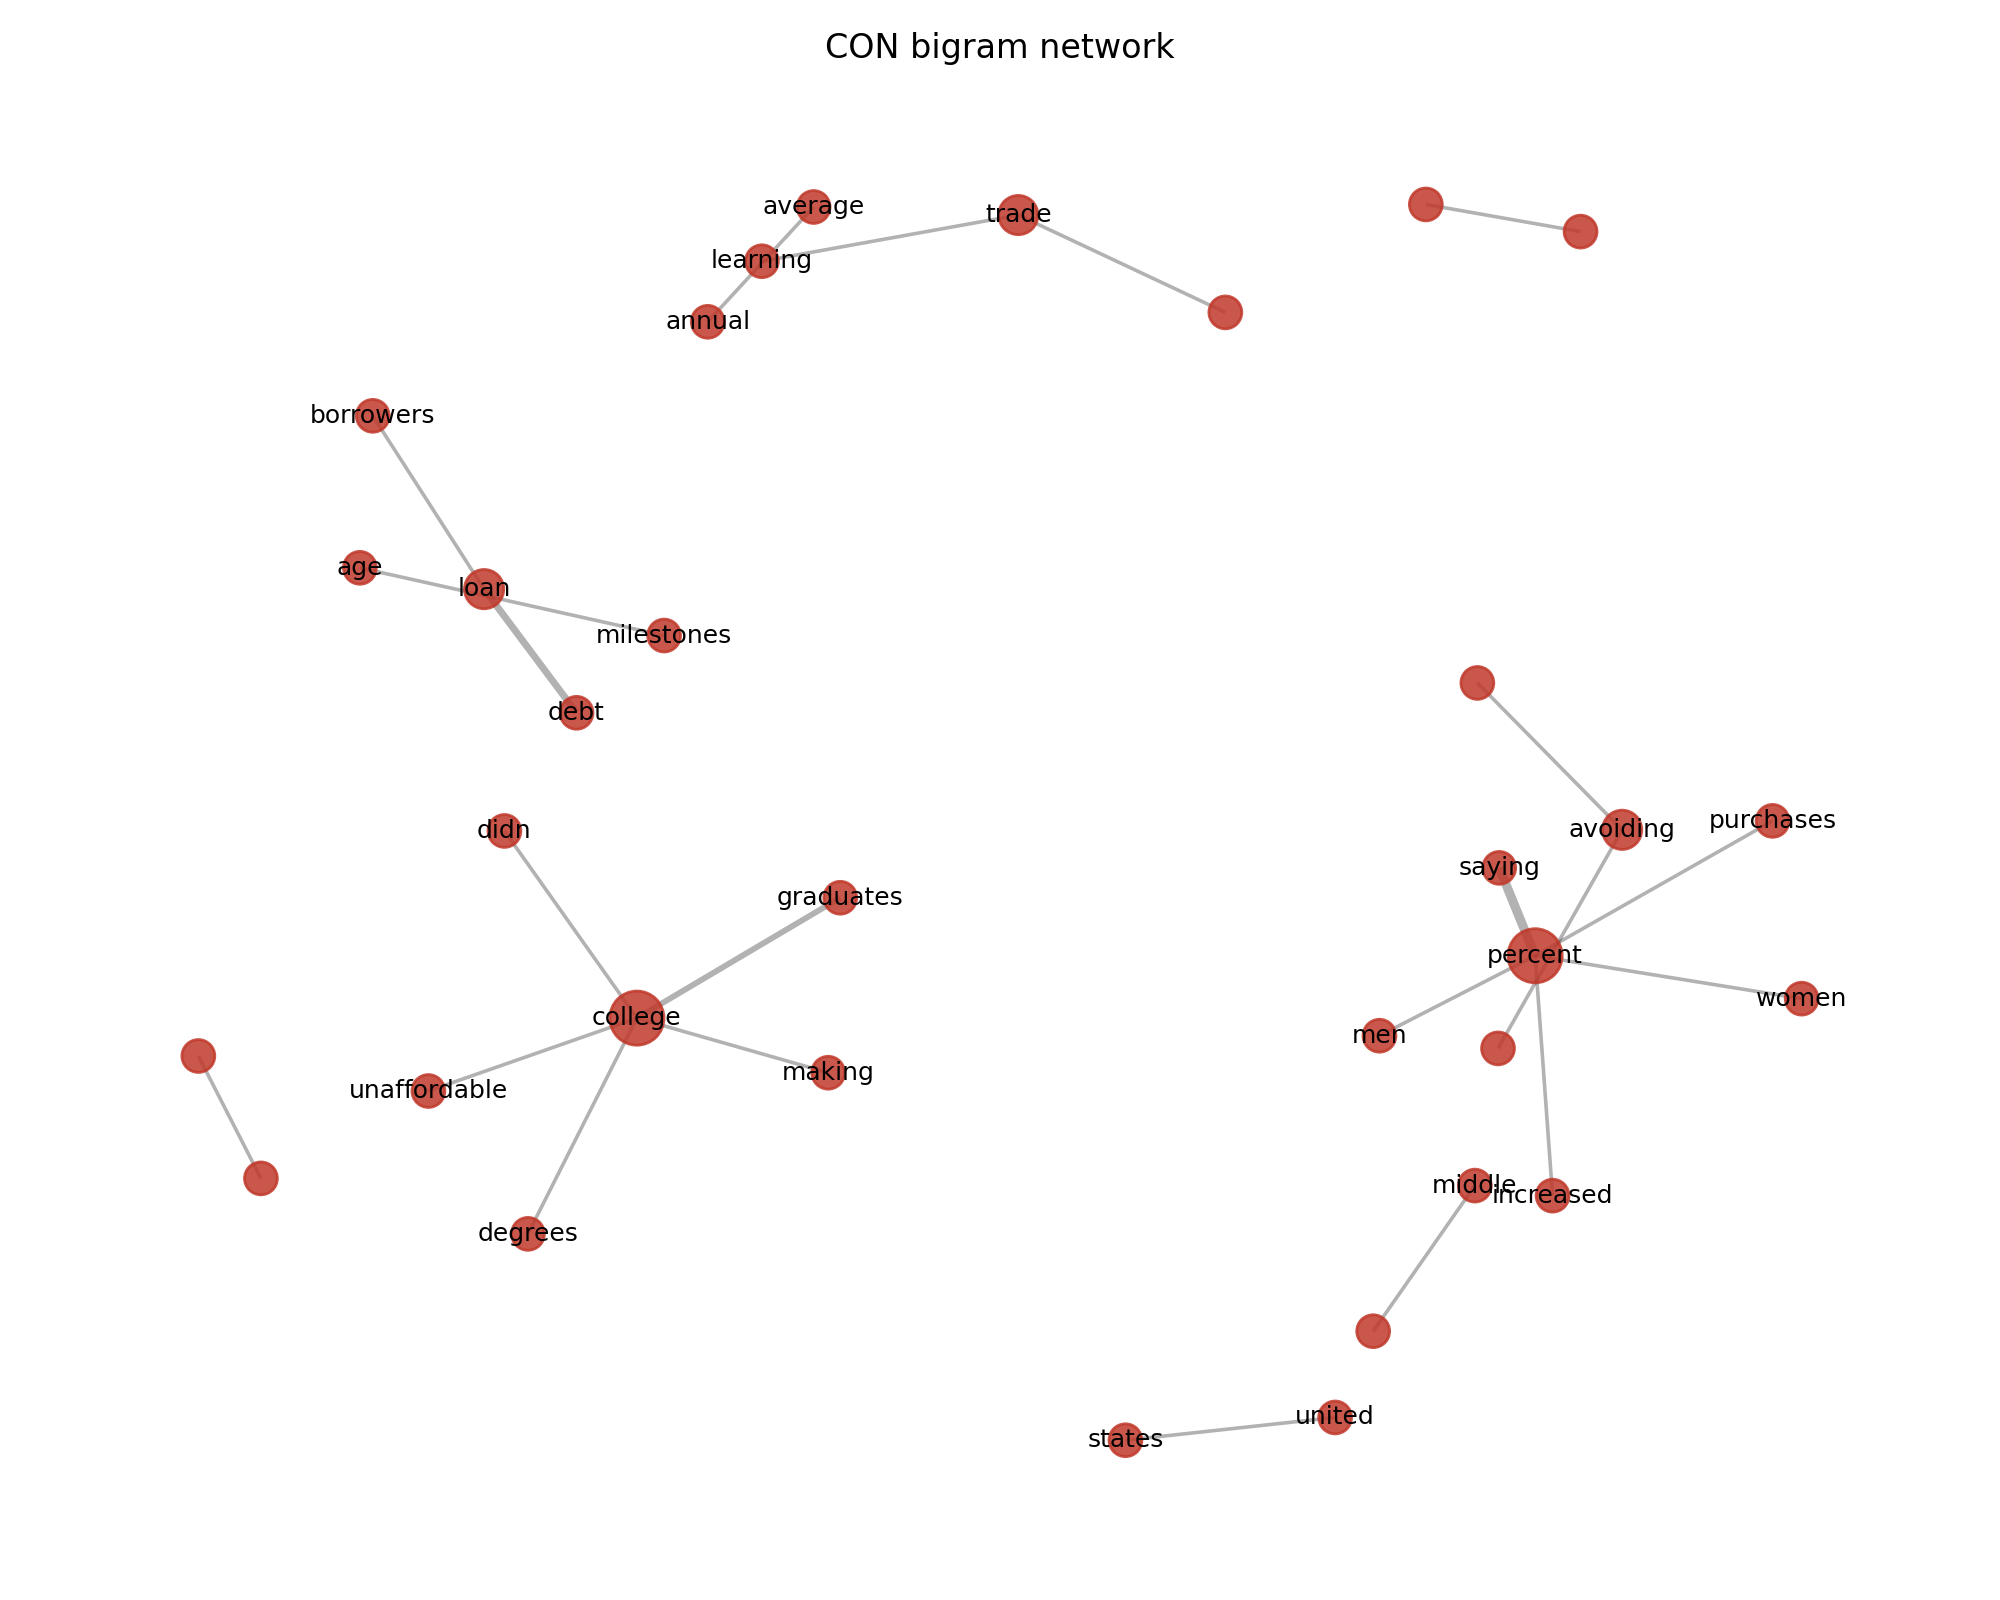
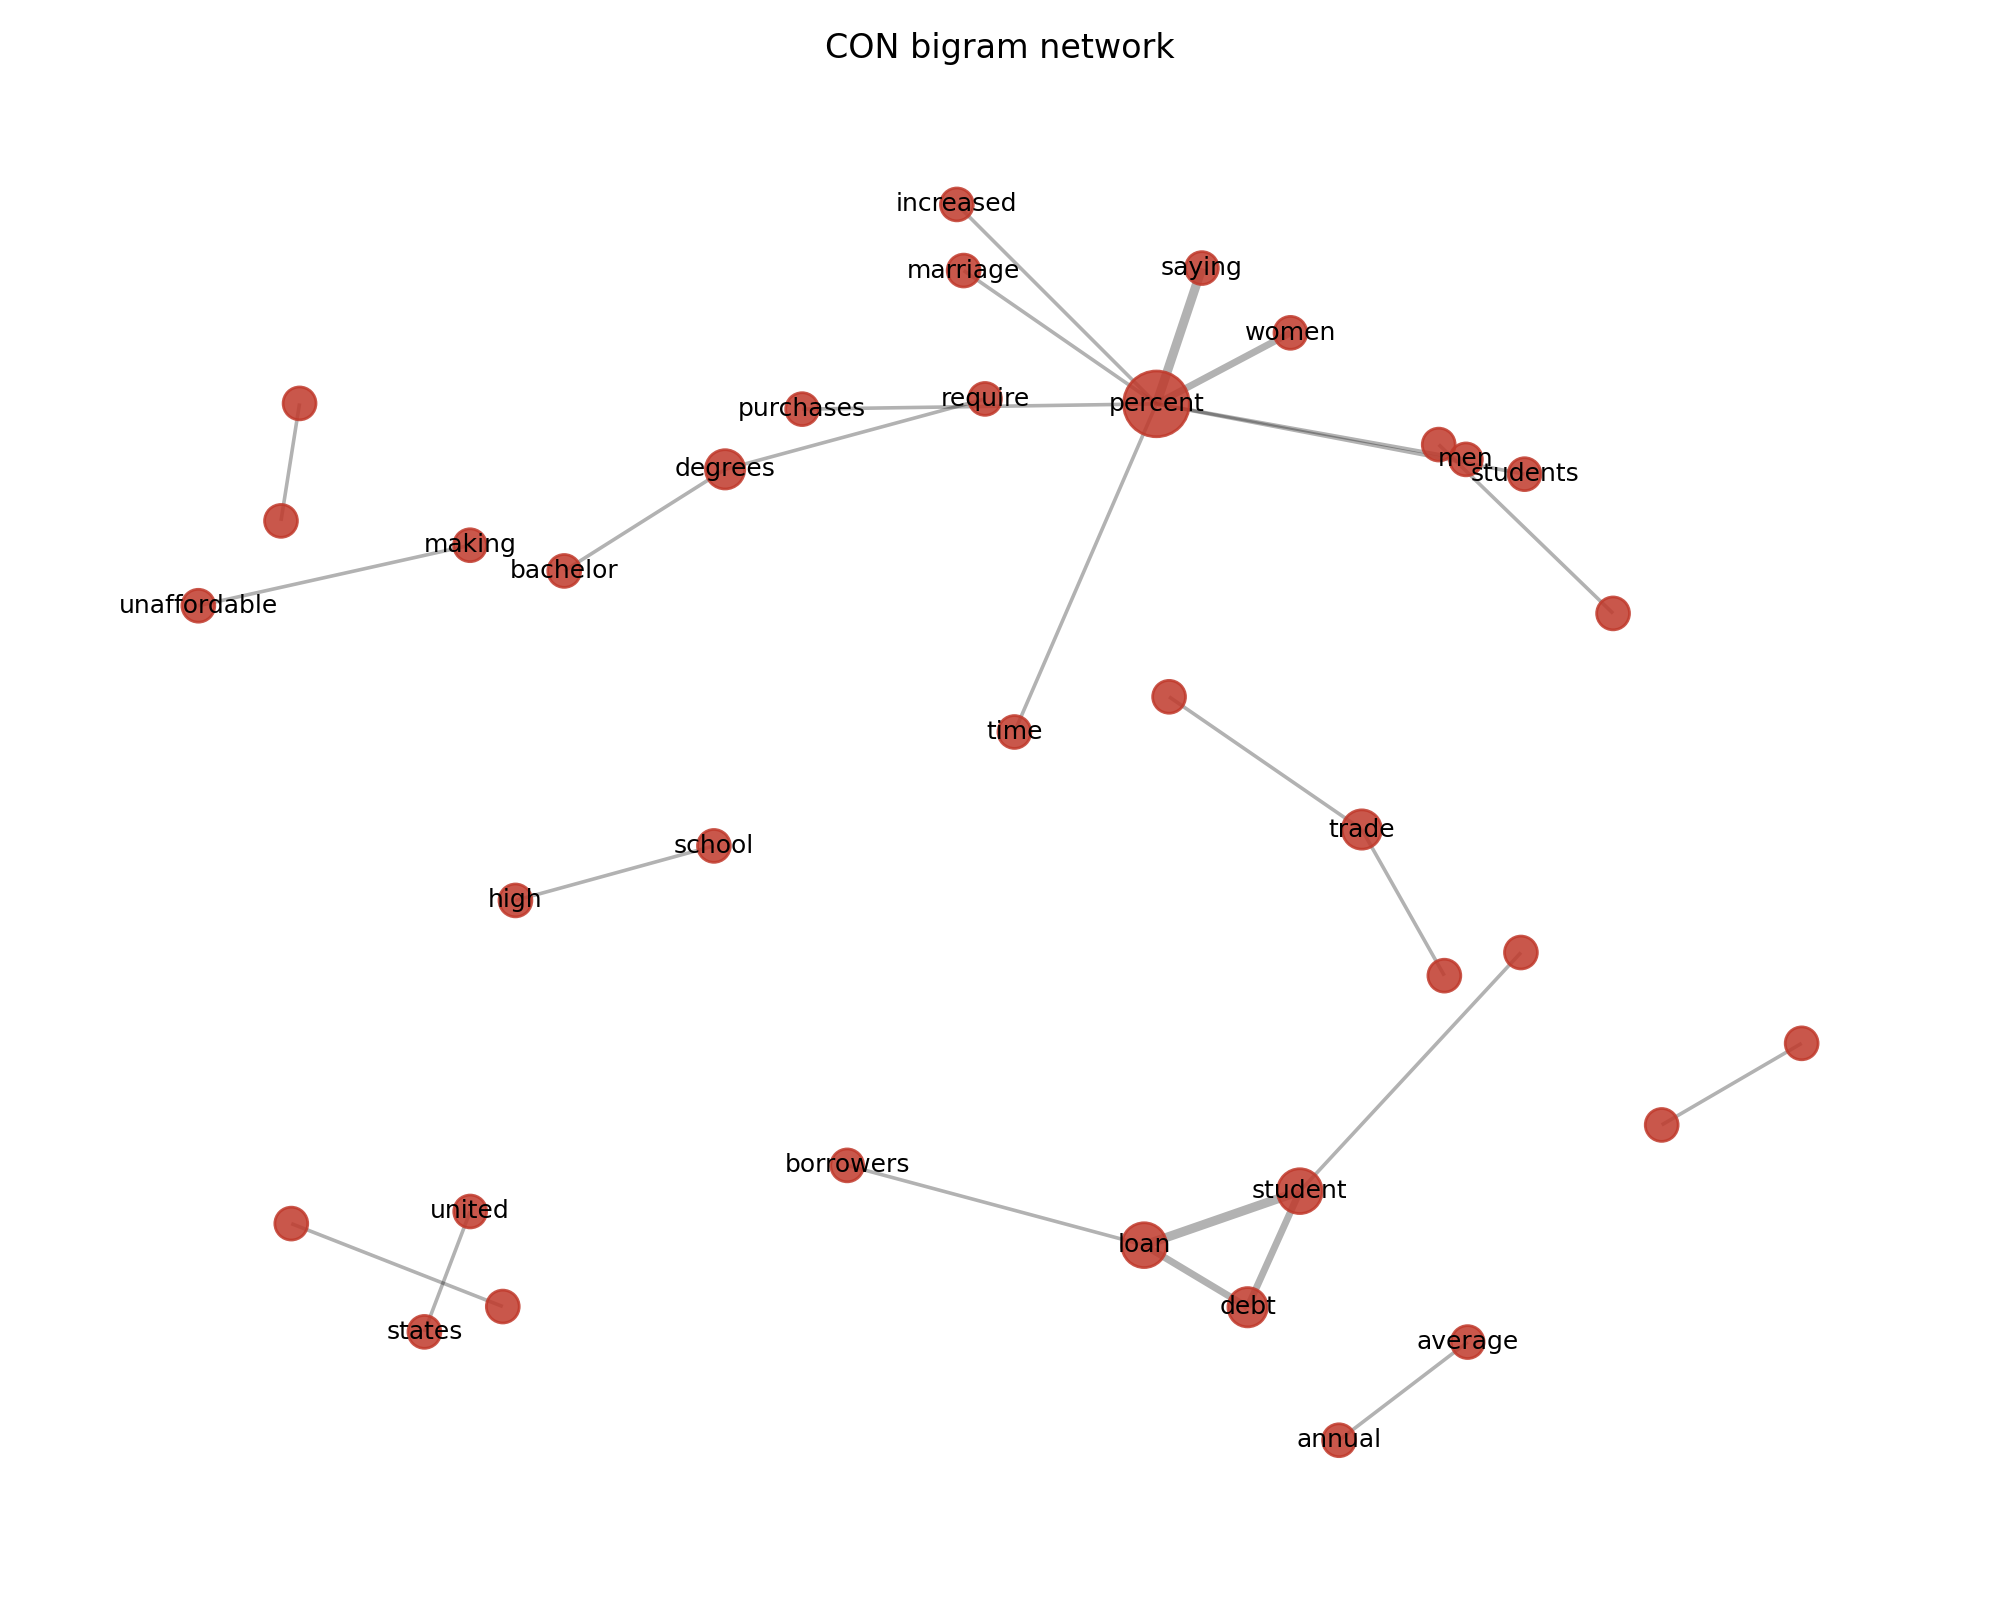
Fix topic stopwords and undirected bigram weights

diff --git a/ex05_analysis.py b/ex05_analysis.py
@@ -19,9 +19,8 @@ STOP = sys.argv[3] if len(sys.argv) > 3 else "stopwords_en.txt"
 OUT = "output"
 os.makedirs(OUT, exist_ok=True)
 
-# Words that appear everywhere because of the issue itself (edit after inspecting top words)
-ISSUE_WORDS = {"artificial", "intelligence", "schoolwork", "students", "student", "school",
-               "schools", "chatgpt", "tools", "tool", "pro", "con"}
+# Topic words shared by both sides of the college education debate.
+ISSUE_WORDS = {"college", "colleges", "education", "educations", "higher", "pro", "con"}
 
 stopwords = {w.strip().lower() for w in open(STOP, encoding="utf-8") if w.strip()}
 stopwords |= ISSUE_WORDS
@@ -56,9 +55,14 @@ def bigrams(sent_tokens):
 def build_network(bg, min_count=2):
     """Co-occurrence (adjacent-word) network: nodes = words, edge weight = bigram count."""
     G = nx.Graph()
-    for (a, b), n in bg.items():
-        if n >= min_count and a != b:
-            G.add_edge(a, b, weight=n)
+    pair_counts = Counter()
+    for (first, second), count in bg.items():
+        if first != second:
+            pair = tuple(sorted((first, second)))
+            pair_counts[pair] += count
+    for (first, second), count in pair_counts.items():
+        if count >= min_count:
+            G.add_edge(first, second, weight=count)
     return G
 
 
